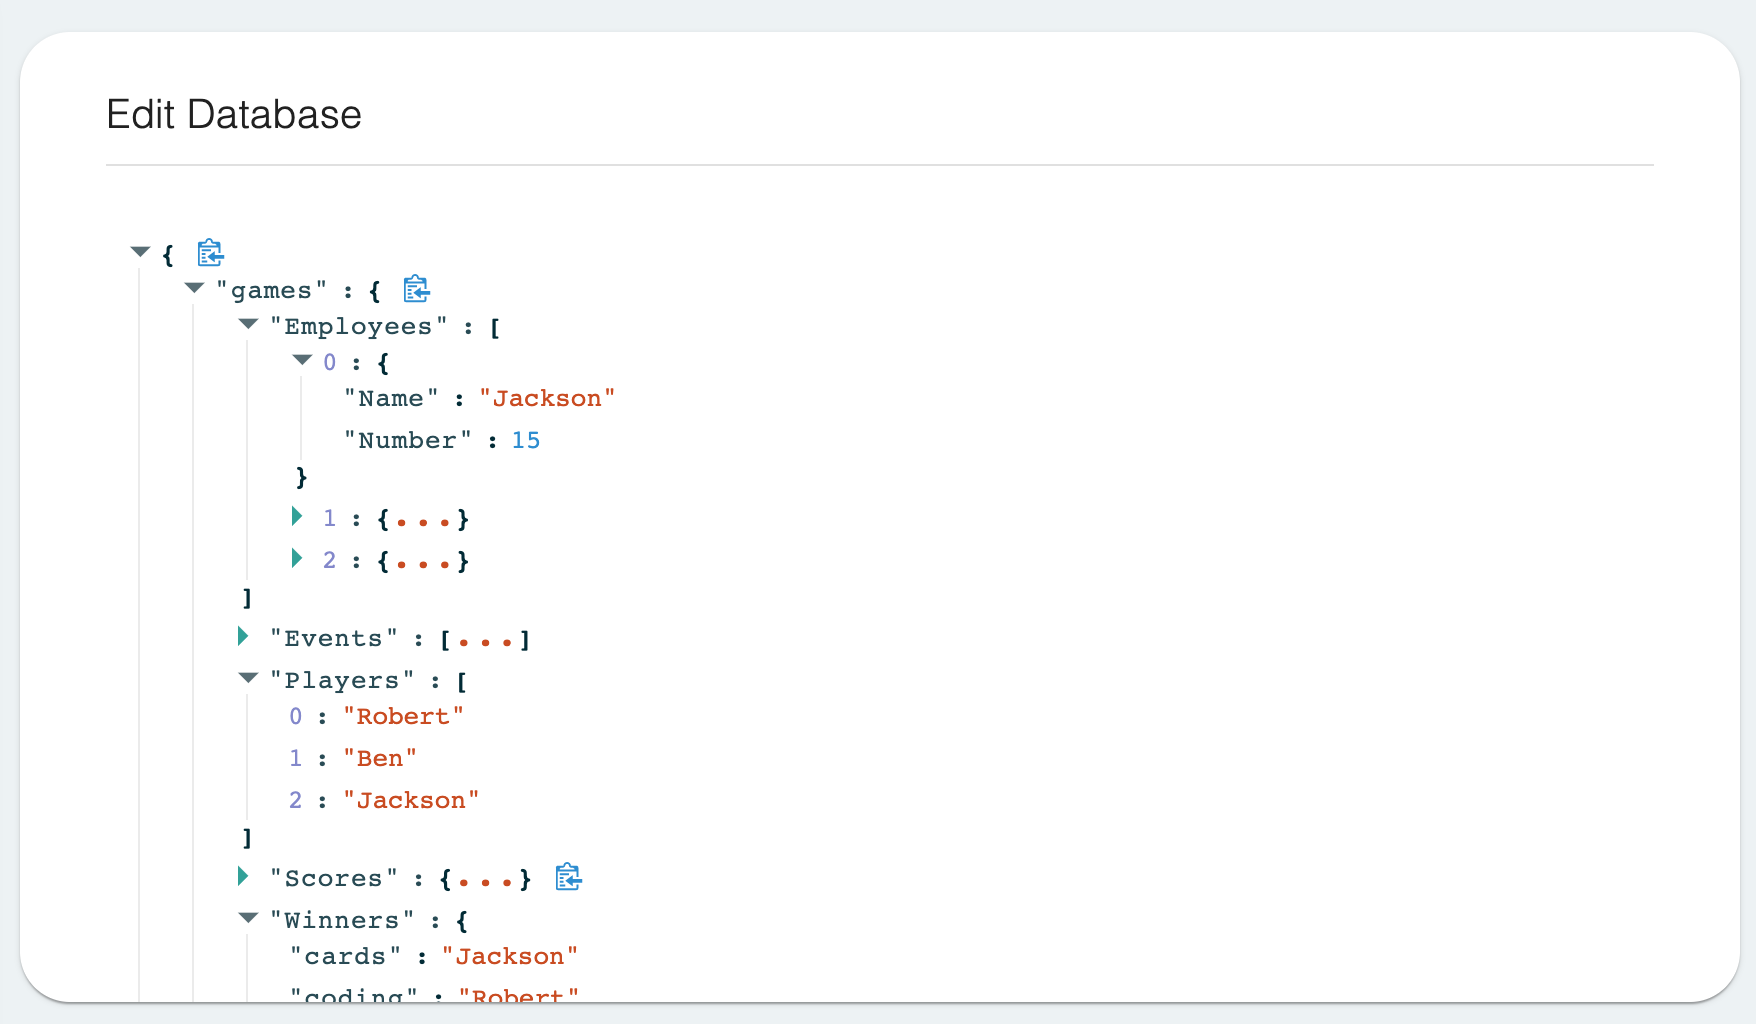
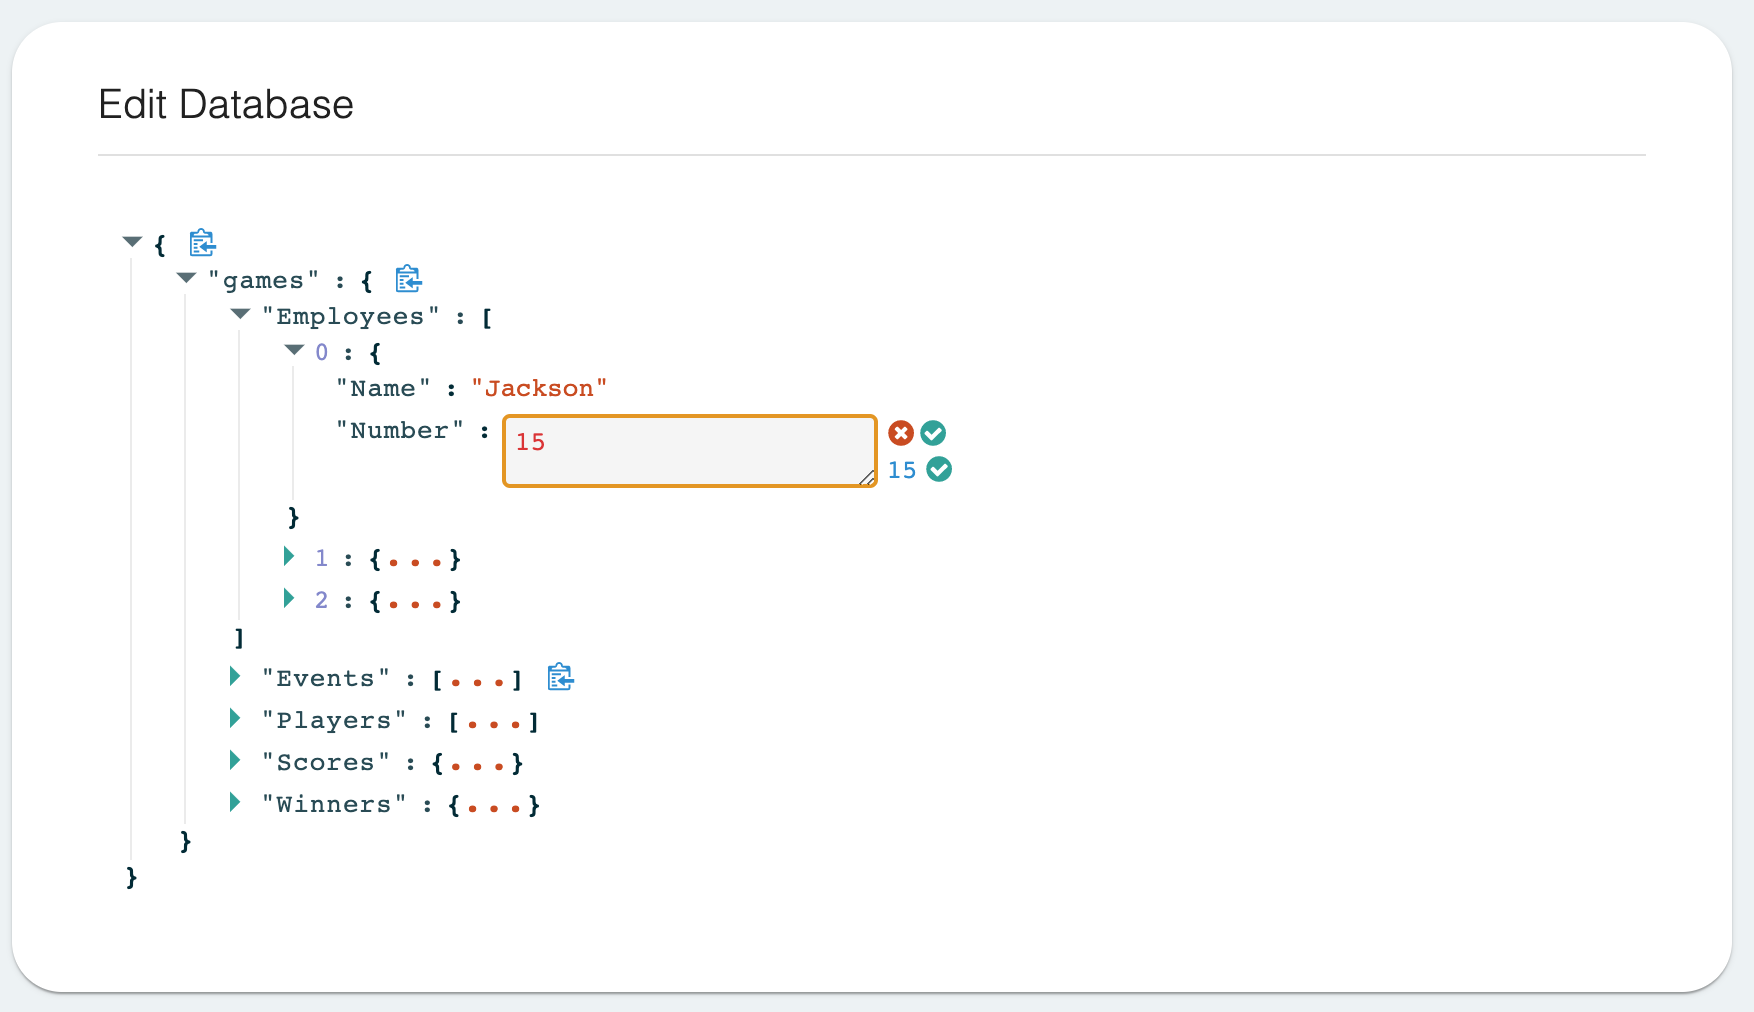
added the database managment section and changed the corresponding image to better reflect the description

diff --git a/README.md b/README.md
@@ -48,6 +48,10 @@ project or a select set of features from their selected project through FireLoun
 <img src = 'images/manage_proj_screenshot.png'/>
 
 ### Database Management
+- Users are able easily manage their Firebase databases right in FireLounge using the provided user interface. This interface
+gives users the ability to perform basic CRUD operations on the currently selected  Firebase database. 
+
+<img src='images/view_db_screenshot.png'/>
 
 ### Database Queries
 
